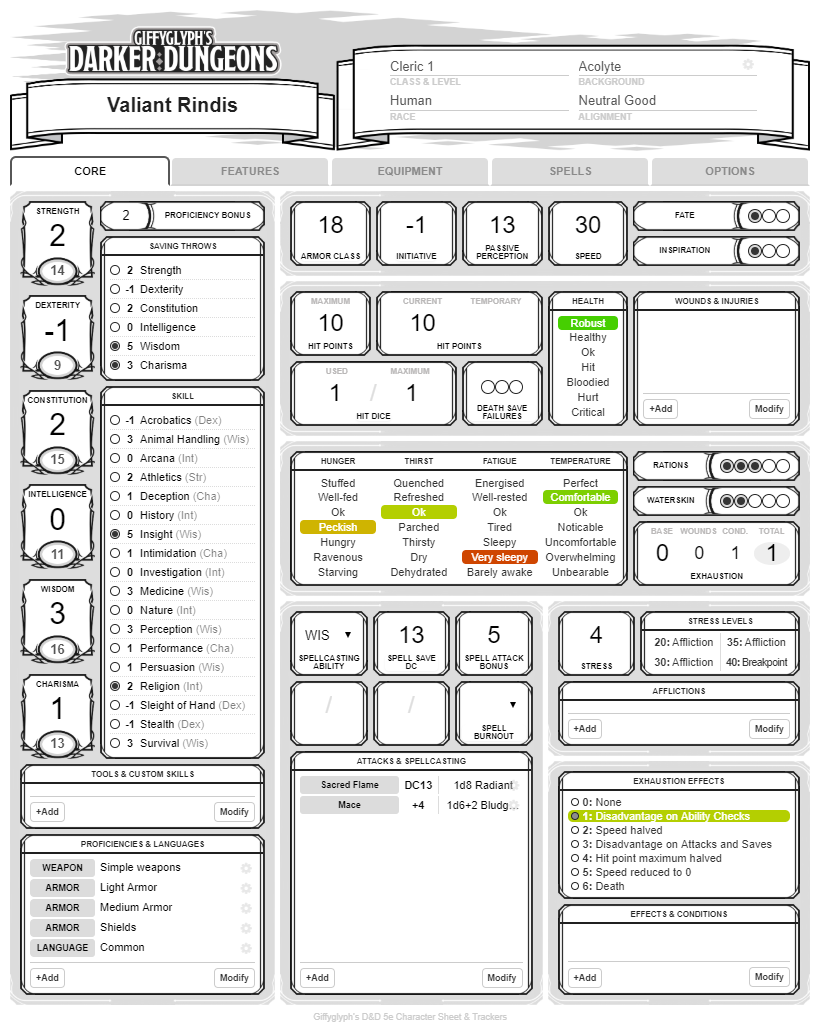
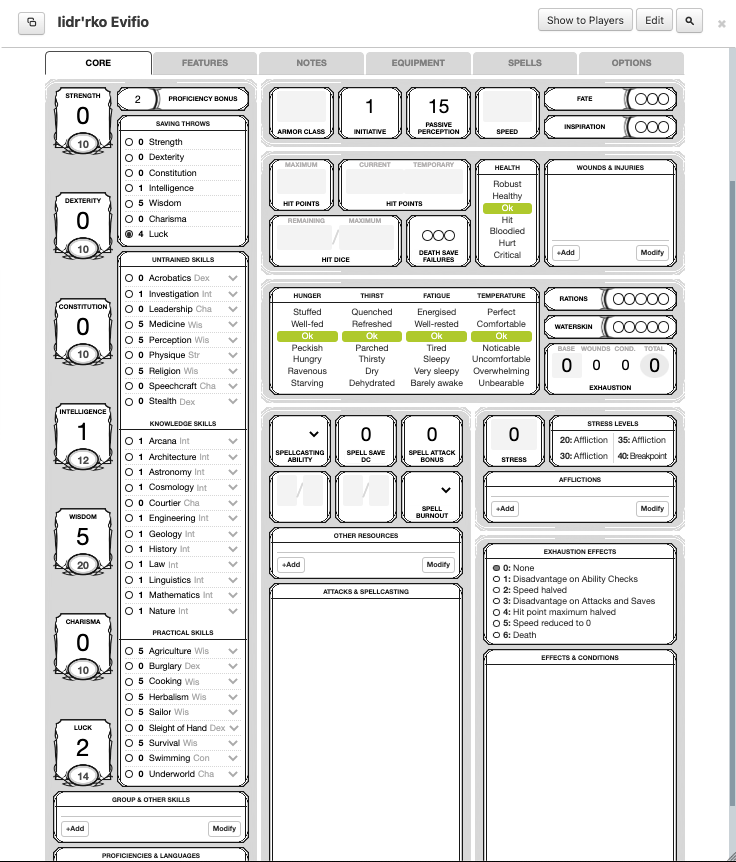
Update screenshot to reflect changes

diff --git a/README.md b/README.md
@@ -9,3 +9,6 @@ The skills list it totally different and divided into three main categories; *Un
 
 ## Luck
 Luck is a new ability score.
+
+## Preview
+![preview](sheet.png)
